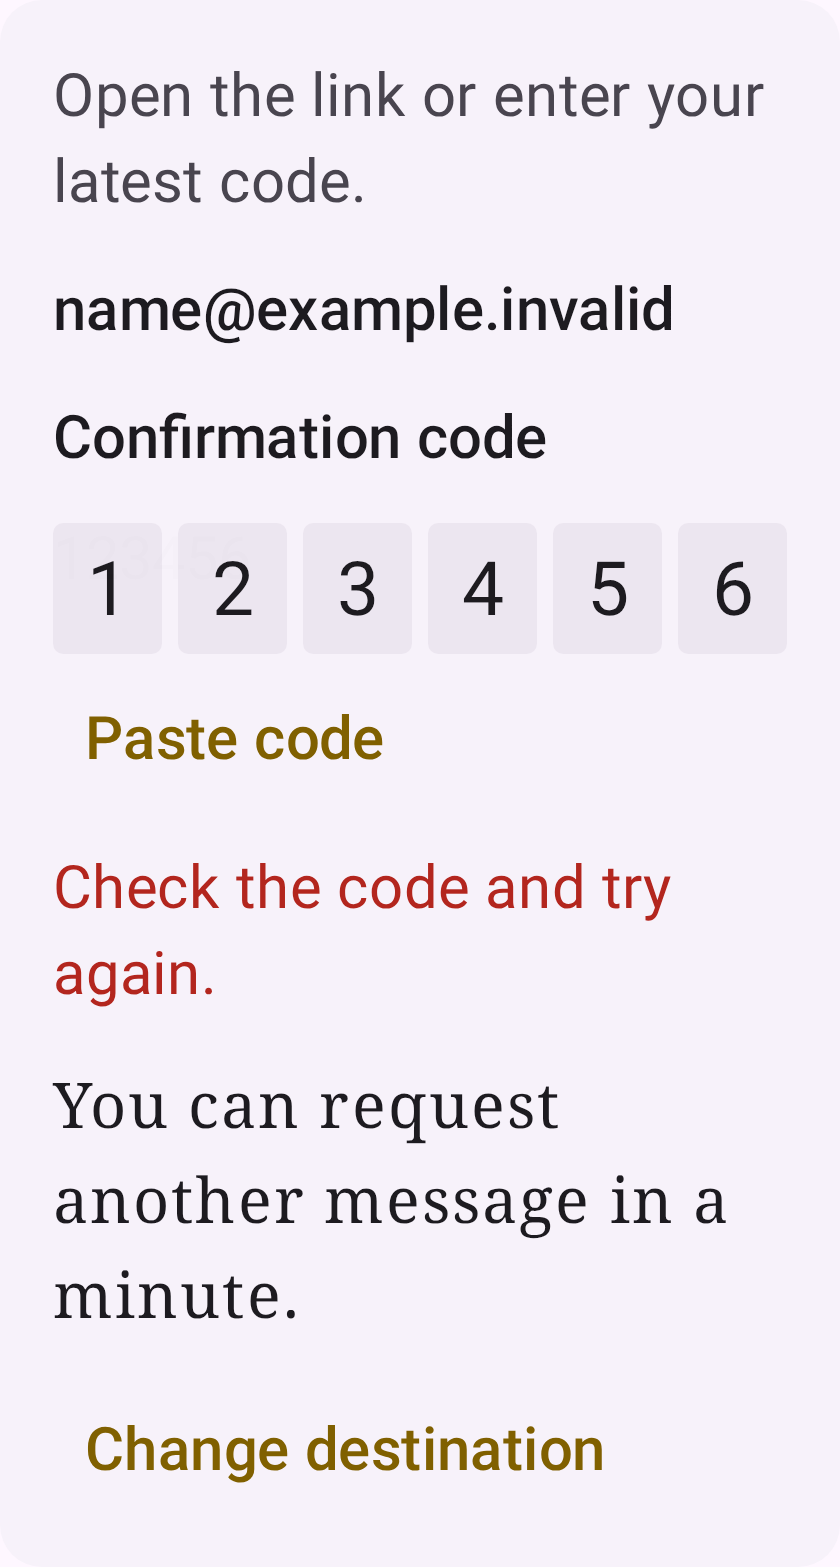
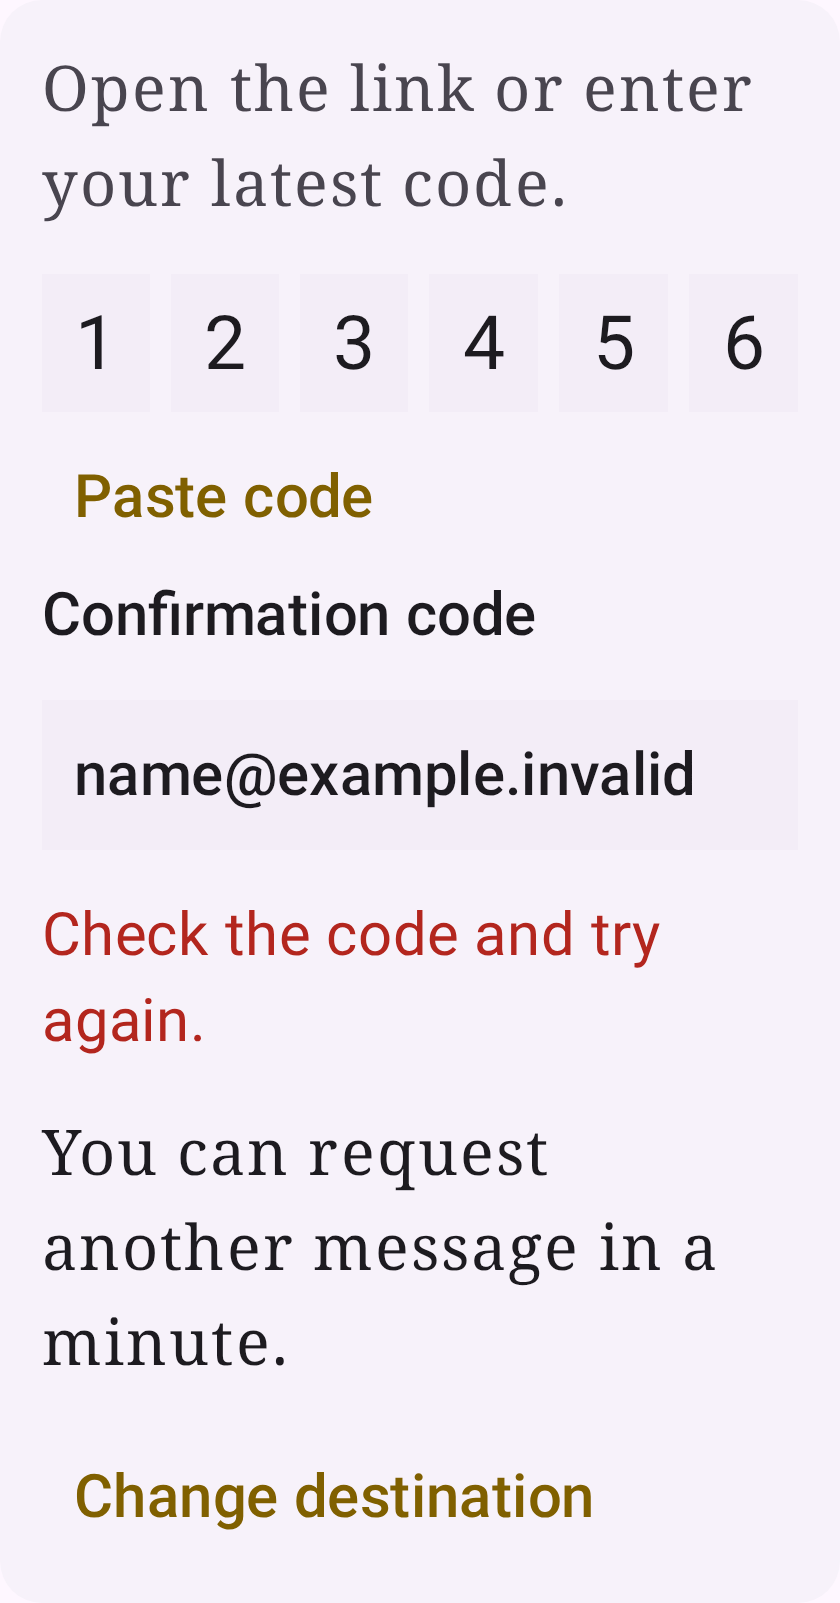
docs: add reviewed verification previews and release guidance

diff --git a/docs/es/testing.md b/docs/es/testing.md
@@ -4,8 +4,8 @@ Las vistas previas y los escenarios deterministas cubren tarjetas, encabezados, 
 
 ```sh
 ./gradlew :ui-common:testDebugUnitTest :ui-common:lintDebug :app:lintDebug :app:assembleDebug
-./gradlew :ui-common:assembleDebugAndroidTest
-./gradlew :ui-common:connectedDebugAndroidTest
+./gradlew :ui-common:assembleDebugAndroidTest :app:assembleDebugAndroidTest
+./gradlew :ui-common:connectedDebugAndroidTest :app:connectedDebugAndroidTest
 ./gradlew :ui-common:validateDebugScreenshotTest :app:validateDebugScreenshotTest
 sh ./docs.sh check
 sh ./docs.sh build --check --base /
@@ -14,14 +14,14 @@ sh ./docs.sh build --check --base /android.ui.common/
 
 Las pruebas conectadas necesitan un emulador o dispositivo. La validación visual compara referencias revisadas; una imagen recién generada es una candidata, no una referencia aprobada. Consulta la [política de capturas](../screenshots/README.md). No actualices referencias solo para ocultar diferencias.
 
-Las pruebas unitarias cubren la normalización; las de Compose cubren callbacks, semántica, entrada y pegado explícito. Las capturas no demuestran el comportamiento del autocompletado del sistema, el teclado ni los dispositivos físicos.
+Las pruebas unitarias cubren la normalización; las de Compose cubren callbacks, semántica, entrada y pegado explícito. Las pruebas del ejemplo comprueban App settings, su destino, el regreso y la recreación. La tarjeta detallada comprueba un único campo lógico y el estado controlado por el host. Las capturas no demuestran el comportamiento del autocompletado del sistema, el teclado ni los dispositivos físicos.
 
 ## Ejemplos renderizados
 
-Se revisaron estas ilustraciones para comprobar el diseño y la herencia del tema. No son referencias
+Se revisaron estas ilustraciones de Development renderizadas en CI para comprobar el diseño y la herencia del tema. No son referencias
 visuales aprobadas ni evidencia del autocompletado en dispositivos.
 
 ![Tarjeta con tema claro](../assets/screenshots/verification-light.png)
-![Código completo con tema oscuro](../assets/screenshots/verification-dark.png)
+![Tarjeta detallada con tema oscuro](../assets/screenshots/verification-dark.png)
 ![Tema alternativo, 320dp y texto grande](../assets/screenshots/alternate-host.png)
 ![Componentes del catálogo](../assets/screenshots/components-light.png)

diff --git a/docs/agents/testing.md b/docs/agents/testing.md
@@ -6,8 +6,8 @@ Fixtures never access a server, Keystore, camera or real credentials.
 
 ```sh
 ./gradlew :ui-common:testDebugUnitTest :ui-common:lintDebug :app:lintDebug :app:assembleDebug
-./gradlew :ui-common:assembleDebugAndroidTest
-./gradlew :ui-common:connectedDebugAndroidTest
+./gradlew :ui-common:assembleDebugAndroidTest :app:assembleDebugAndroidTest
+./gradlew :ui-common:connectedDebugAndroidTest :app:connectedDebugAndroidTest
 ./gradlew :ui-common:validateDebugScreenshotTest :app:validateDebugScreenshotTest
 sh ./docs.sh check
 sh ./docs.sh build --check --base /
@@ -18,14 +18,15 @@ Connected tests require an emulator/device. Screenshot validation compares revie
 initial rendered output is a candidate, not an accepted baseline. See [screenshot policy](../screenshots/README.md)
 for rendering and intentional acceptance. Do not refresh baselines merely to silence a difference.
 Unit tests cover normalization; Compose tests cover callbacks, semantics, input and explicit paste.
+The sample device tests check the top App settings intent, return and recreation. The detailed card test checks one logical input and host-owned recipient status.
 Host screenshots do not prove system autofill, IME or physical-device behavior.
 
 ## Rendered examples
 
-These locally rendered illustrations were inspected for layout and host-theme inheritance. They are
+These CI-rendered Development illustrations were inspected for layout and host-theme inheritance. They are
 not approved regression baselines or evidence of device autofill behavior.
 
 ![Verification card, light host](../assets/screenshots/verification-light.png)
-![Complete code, dark host](../assets/screenshots/verification-dark.png)
+![Detailed verification card, dark host](../assets/screenshots/verification-dark.png)
 ![Alternate host, 320dp and large text](../assets/screenshots/alternate-host.png)
 ![Catalog primitives](../assets/screenshots/components-light.png)

diff --git a/README.md b/README.md
@@ -12,6 +12,18 @@ Reusable Material 3 Compose cards, catalogs and verification-code entry that inh
 | CatalogScreen | Centered scrolling catalog with header/empty-state slots |
 | OneTimeCodeField | One logical numeric field with visual slots and explicit paste |
 | CodeVerificationCard | Full verification card with host-owned messages/actions |
+| VerificationRecipientRow | Wrapping recipient/status summary with optional decorative icons (Development) |
+
+The detailed `VerificationCardDetails` overload is **Development source**, pending a new release;
+it is not available in the confirmed 0.1.0 artifact. The original card signature remains supported.
+
+| Detailed card, light | Detailed card, dark |
+| --- | --- |
+| ![Development verification card in light mode](docs/assets/screenshots/verification-light.png) | ![Development verification card in dark mode](docs/assets/screenshots/verification-dark.png) |
+
+These are synthetic rendered documentation illustrations, not accepted regression baselines.
+See [capture provenance](docs/screenshots/documentation.json). The sample also exposes **App settings**
+above the catalog to open Android application details for its installed package.
 
 Start with [quickstart](docs/agents/quickstart.md), [API contracts](docs/agents/api.md),
 [migration](docs/agents/migration.md), [testing](docs/agents/testing.md) and [release maintenance](docs/releases.md).

diff --git a/docs/es/index.md b/docs/es/index.md
@@ -12,3 +12,13 @@ Componentes Kotlin/Compose Material 3 para tarjetas, catálogos y códigos de ve
 - [Referencia del código](source-reference.md): declaraciones generadas; se muestra en inglés cuando no existe traducción revisada.
 
 La versión 0.1.0 está confirmada en JitPack. Utiliza las coordenadas exactas de [IMPORT.md](../../IMPORT.md); estas guías actuales también pueden describir trabajo en desarrollo.
+
+La sobrecarga detallada de la tarjeta y el resumen del destinatario son **código de Development**,
+pendientes de una nueva versión. Heredan el tema del host y no deducen éxito en la verificación.
+
+| Claro | Oscuro |
+| --- | --- |
+| ![Tarjeta detallada de verificación, tema claro](../assets/screenshots/verification-light.png) | ![Tarjeta detallada de verificación, tema oscuro](../assets/screenshots/verification-dark.png) |
+
+Ilustraciones sintéticas para documentación; [procedencia](../screenshots/documentation.json).
+Estas imágenes no son referencias de regresión aceptadas.

diff --git a/docs/agents/index.md b/docs/agents/index.md
@@ -13,3 +13,13 @@ The host owns its theme, state, strings, navigation and network operations.
 - [Source reference](source-reference.md): generated declarations, not a complete semantic contract.
 
 JitPack release 0.1.0 is confirmed. Use the exact coordinates in [IMPORT.md](../../IMPORT.md); these current guides may also describe ongoing development.
+
+The detailed verification-card overload and recipient summary below are **Development source**,
+pending a new release. They inherit the host theme and do not infer verification success.
+
+| Light | Dark |
+| --- | --- |
+| ![Detailed verification card, light](../assets/screenshots/verification-light.png) | ![Detailed verification card, dark](../assets/screenshots/verification-dark.png) |
+
+Synthetic documentation illustrations; [capture provenance](../screenshots/documentation.json).
+These images are not accepted regression baselines.
